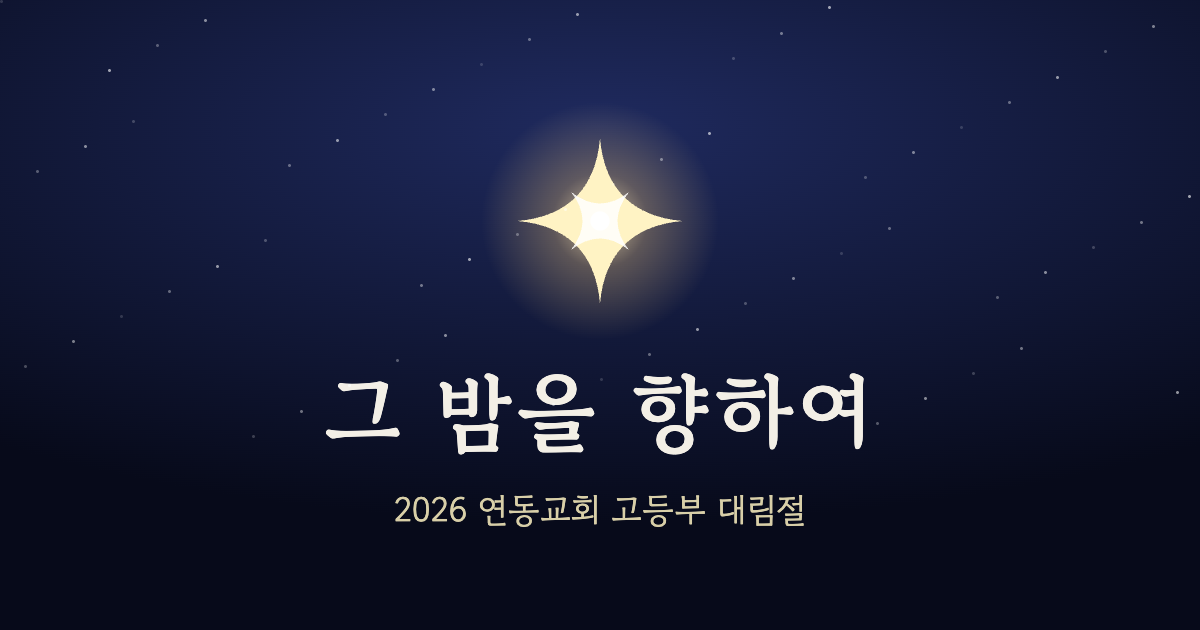
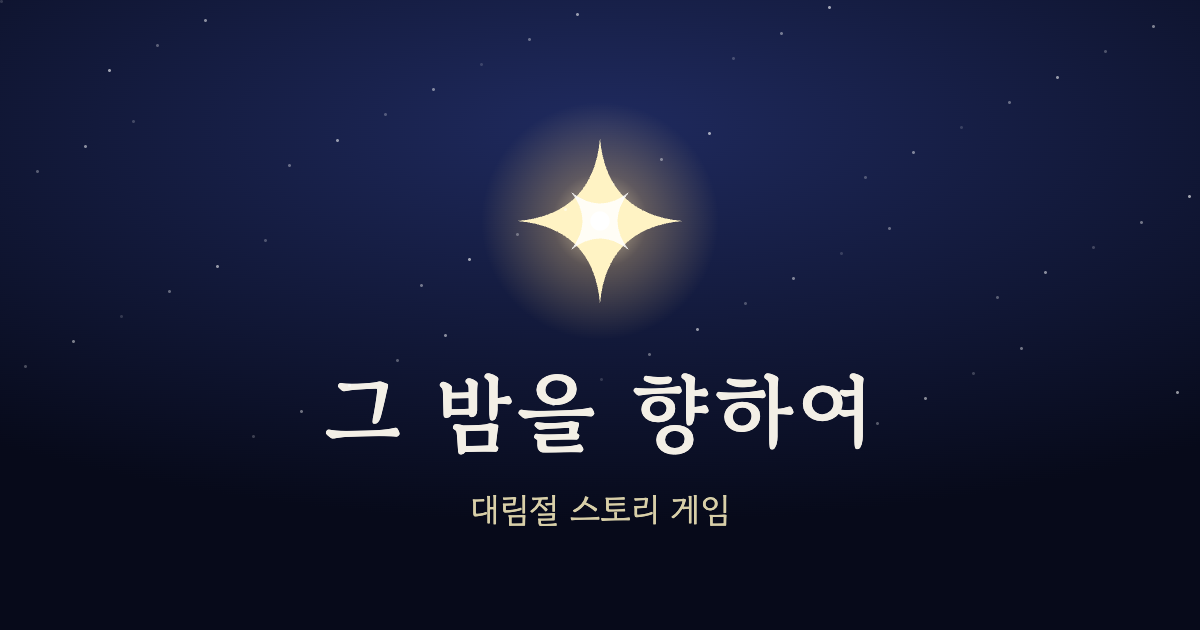
공유용 판: 교회·부서·연도 문구를 빼고 story/site.js로 (판마다 다르게)
- 홈 부제목·엔딩·완주 카드·묵상 노트의 이름표를 SITE 설정에서 읽음
- 링크 미리보기 그림과 설명, 앱 설명에서 교회·부서·연도 뺌
- README: 다른 교회·부서에서 쓰는 법, 공유용 주소

Changed region(s): [[0.3083, 0.7841, 0.6783, 0.8444]]

diff --git a/index.html b/index.html
@@ -5,10 +5,10 @@
 <meta name="viewport" content="width=device-width,initial-scale=1,viewport-fit=cover">
 <meta name="theme-color" content="#070a1a">
 <title>그 밤을 향하여</title>
-<meta name="description" content="2026 연동교회 고등부 대림절 스토리 게임">
+<meta name="description" content="대림절 스토리 게임">
 <meta property="og:title" content="그 밤을 향하여">
-<meta property="og:description" content="2026 연동교회 고등부 대림절 · 매일 3분, 성경 인물이 되어 그 밤을 향해 걷기">
-<meta property="og:image" content="https://imodzeodo.github.io/advent2026/og.png">
+<meta property="og:description" content="대림절 스토리 게임 · 매일 3분, 성경 인물이 되어 그 밤을 향해 걷기">
+<meta property="og:image" content="https://imodzeodo.github.io/toward-that-night/og.png">
 <meta property="og:type" content="website">
 <meta name="apple-mobile-web-app-capable" content="yes">
 <meta name="apple-mobile-web-app-title" content="그 밤">
@@ -18,36 +18,37 @@
 <link rel="preconnect" href="https://fonts.googleapis.com">
 <link rel="preconnect" href="https://fonts.gstatic.com" crossorigin>
 <link href="https://fonts.googleapis.com/css2?family=Gowun+Batang:wght@400;700&family=Gowun+Dodum&display=swap" rel="stylesheet">
-<link rel="stylesheet" href="css/style.css?v=37">
+<link rel="stylesheet" href="css/style.css?v=38">
 </head>
 <body>
 <div id="app"></div>
 <noscript>자바스크립트를 켜야 볼 수 있어요.</noscript>
 <!-- 고친 뒤 폰에서 바로 반영되게 하려면 아래 v=숫자 를 하나씩 올려 주세요 -->
-<script src="story/episodes.js?v=37"></script>
-<script src="story/bible.js?v=37"></script>
-<script src="story/codes.js?v=37"></script>
-<script src="story/narr.js?v=37"></script>
-<script src="story/prayers.js?v=37"></script>
-<script src="story/letter.js?v=37"></script>
-<script src="story/cast.js?v=37"></script>
-<script src="story/intro.js?v=37"></script>
-<script src="story/ch1.js?v=37"></script>
-<script src="story/ch2.js?v=37"></script>
-<script src="story/ch3.js?v=37"></script>
-<script src="story/ch4.js?v=37"></script>
-<script src="js/core.js?v=37"></script>
-<script src="js/script.js?v=37"></script>
-<script src="js/audio.js?v=37"></script>
-<script src="js/fame.js?v=37"></script>
-<script src="js/art.js?v=37"></script>
-<script src="js/fx.js?v=37"></script>
-<script src="js/games.js?v=37"></script>
-<script src="js/sky.js?v=37"></script>
-<script src="js/card.js?v=37"></script>
-<script src="js/note.js?v=37"></script>
-<script src="js/backup.js?v=37"></script>
-<script src="js/player.js?v=37"></script>
-<script src="js/app.js?v=37"></script>
+<script src="story/episodes.js?v=38"></script>
+<script src="story/bible.js?v=38"></script>
+<script src="story/codes.js?v=38"></script>
+<script src="story/narr.js?v=38"></script>
+<script src="story/prayers.js?v=38"></script>
+<script src="story/letter.js?v=38"></script>
+<script src="story/site.js?v=38"></script>
+<script src="story/cast.js?v=38"></script>
+<script src="story/intro.js?v=38"></script>
+<script src="story/ch1.js?v=38"></script>
+<script src="story/ch2.js?v=38"></script>
+<script src="story/ch3.js?v=38"></script>
+<script src="story/ch4.js?v=38"></script>
+<script src="js/core.js?v=38"></script>
+<script src="js/script.js?v=38"></script>
+<script src="js/audio.js?v=38"></script>
+<script src="js/fame.js?v=38"></script>
+<script src="js/art.js?v=38"></script>
+<script src="js/fx.js?v=38"></script>
+<script src="js/games.js?v=38"></script>
+<script src="js/sky.js?v=38"></script>
+<script src="js/card.js?v=38"></script>
+<script src="js/note.js?v=38"></script>
+<script src="js/backup.js?v=38"></script>
+<script src="js/player.js?v=38"></script>
+<script src="js/app.js?v=38"></script>
 </body>
 </html>

diff --git a/js/app.js b/js/app.js
@@ -82,7 +82,7 @@
       <header class="home-head">
         <div class="home-star">${Art.bigStar(Math.max(0.04, b), 170)}</div>
         <h1>그 밤을 향하여</h1>
-        <p class="sub">2026 연동교회 고등부 대림절</p>
+        <p class="sub">${esc((window.SITE || {}).label || '')}</p>
         ${started ? `<div class="stats">
           <span>${esc(D.nickname)}${D.ban ? ' · ' + esc(D.ban) : ''}</span>
           <span>⭐ 별빛 ${Core.starCount()}/${Core.starTotal()}</span>
@@ -395,7 +395,7 @@
         <h2>함께한 사람들</h2>
         <p><b>사가랴 · 엘리사벳 · 요셉 · 마리아</b><br>할아버지 목자와 들판의 목자들<br>그리고 등불을 든 <b>${esc(D.nickname || '너')}</b></p>
         ${castList().length ? `<div class="fin-cast"><h3>출연</h3>${castList().map(c => `<div><span>${esc(c.role)}</span><b>${esc(FACES[c.t].name)} 선생님</b></div>`).join('')}</div>` : ''}
-        <p>2026 연동교회 고등부 대림절</p>
+        <p>${esc((window.SITE || {}).label || '')}</p>
         <p class="fin-small">성경 본문: 성경전서 개역개정판 © 대한성서공회<br>음악: 곧 오소서 임마누엘 · 기쁘다 구주 오셨네 · 고요한 밤 거룩한 밤 (옛 찬송 선율)</p>
         <p class="fin-last">"목자들은 자기들에게 이르던 바와 같이<br>듣고 본 그 모든 것으로 인하여<br>하나님께 영광을 돌리고 찬송하며 돌아가니라"<br><small>누가복음 2:20</small></p>
       </section>

diff --git a/js/note.js b/js/note.js
@@ -40,7 +40,7 @@
       if (x.mission) out.push(`🎯 미션  ${ST_SHORT[x.st] || ''}`.trim(), x.mission, '');
       out.push('');
     }
-    out.push(LINE, '2026 연동교회 고등부 대림절', '성경 본문: 개역개정판 © 대한성서공회');
+    out.push(LINE, (window.SITE || {}).label || '', '성경 본문: 개역개정판 © 대한성서공회');
     return out.join('\n');
   }
   // 말씀 모음
@@ -66,7 +66,7 @@
     }
     const got = Fame.BADGES.filter(b => D.badges && D.badges[b.id]);
     if (got.length) { out.push(LINE, `🏅 받은 배지 ${got.length}개`, LINE, ''); for (const b of got) out.push(`${b.icon} ${b.name} — ${b.desc}`); out.push(''); }
-    out.push(LINE, '2026 연동교회 고등부 대림절');
+    out.push(LINE, (window.SITE || {}).label || '');
     return out.join('\n');
   }
   async function copyText(t) {
@@ -165,7 +165,7 @@
     y += 90;
     if (draw) {
       ctx.font = `400 24px ${SANS}`; ctx.fillStyle = '#9a8566';
-      ctx.fillText('2026 연동교회 고등부 대림절 · 성경 본문: 개역개정판 © 대한성서공회', L, y - 40);
+      ctx.fillText(((window.SITE || {}).label ? window.SITE.label + ' · ' : '') + '성경 본문: 개역개정판 © 대한성서공회', L, y - 40);
     }
     return y;
   }

diff --git a/js/card.js b/js/card.js
@@ -367,7 +367,7 @@
     ctx.font = `400 34px ${SERIF}`; ctx.fillStyle = '#fff8e6';
     let y = 1090; for (const l of clamp(wrap(ctx, '“' + v.text + '”', W - 220), 3)) { ctx.fillText(l, W / 2, y); y += 50; }
     ctx.font = `400 26px ${SANS}`; ctx.fillStyle = 'rgba(255,244,220,.7)';
-    ctx.fillText('누가복음 2:20 · 2026. 12. 25. 연동교회 고등부 대림절', W / 2, H - P - 50);
+    ctx.fillText((window.SITE || {}).cardFoot || '누가복음 2:20', W / 2, H - P - 50);
     ctx.restore();
     return cv;
   }

diff --git a/story/site.js b/story/site.js
@@ -1,0 +1,7 @@
+/* 이 판의 이름표 (교회·부서·연도). 판마다 여기만 바꾸면 됩니다.
+   label: 홈 제목 아래, 엔딩 크레딧, 묵상 노트 내보내기에 나오는 한 줄
+   cardFoot: 완주 카드 맨 아래 한 줄 */
+window.SITE = {
+  label: '대림절 스토리 게임',
+  cardFoot: '누가복음 2:20 · 성탄절'
+};

diff --git a/README.md b/README.md
@@ -1,9 +1,16 @@
 # 그 밤을 향하여 · 교사용 안내
 
-2026 연동교회 고등부 대림절 스토리 게임입니다. 11/29(주)부터 12/25(성탄)까지 하루 한 편, 3분 안팎.
+대림절 스토리 게임입니다. 대림절 첫 주일(11/29)부터 성탄(12/25)까지 하루 한 편, 3분 안팎.
 
-- 학생용 주소: **https://imodzeodo.github.io/advent2026/**
+- 학생용 주소: **https://imodzeodo.github.io/toward-that-night/**
 - 로그인 없음. 학생의 진행 기록과 일기는 학생 폰의 브라우저에만 저장되고, 교사를 포함해 아무도 볼 수 없습니다.
+
+## 0. 우리 교회·부서에서 쓰려면
+
+- 위 주소를 그대로 학생들에게 나누면 됩니다. 교회 이름·부서 이름은 화면에 나오지 않습니다.
+- 우리 이름을 넣고 싶으면 `story/site.js` 한 파일만 고치면 됩니다(홈 제목 아래, 엔딩, 완주 카드, 묵상 노트).
+- 우리 선생님 얼굴을 인물에 넣으려면 `story/cast.js` 맨 위 설명을 보세요.
+- 날짜는 `story/episodes.js`에 있습니다(대림절 첫 주일 11/29 ~ 성탄 12/25).
 
 ## 1. 학생에게 링크 나누기
 
@@ -61,9 +68,9 @@
 
 | 주소 | 뜻 |
 |---|---|
-| `…/advent2026/?preview=all` | 모든 편 열기 |
-| `…/advent2026/?date=2026-12-10` | 12월 10일 밤이라고 치고 보기 |
-| `…/advent2026/?date=2026-11-29&hour=10` | 11/29 오전 10시 (주일 편이 아직 잠긴 상태 확인) |
+| `…/toward-that-night/?preview=all` | 모든 편 열기 |
+| `…/toward-that-night/?date=2026-12-10` | 12월 10일 밤이라고 치고 보기 |
+| `…/toward-that-night/?date=2026-11-29&hour=10` | 11/29 오전 10시 (주일 편이 아직 잠긴 상태 확인) |
 
 테스트 기록은 띠에 있는 **테스트 기록 지우기**로 초기화합니다.
 
